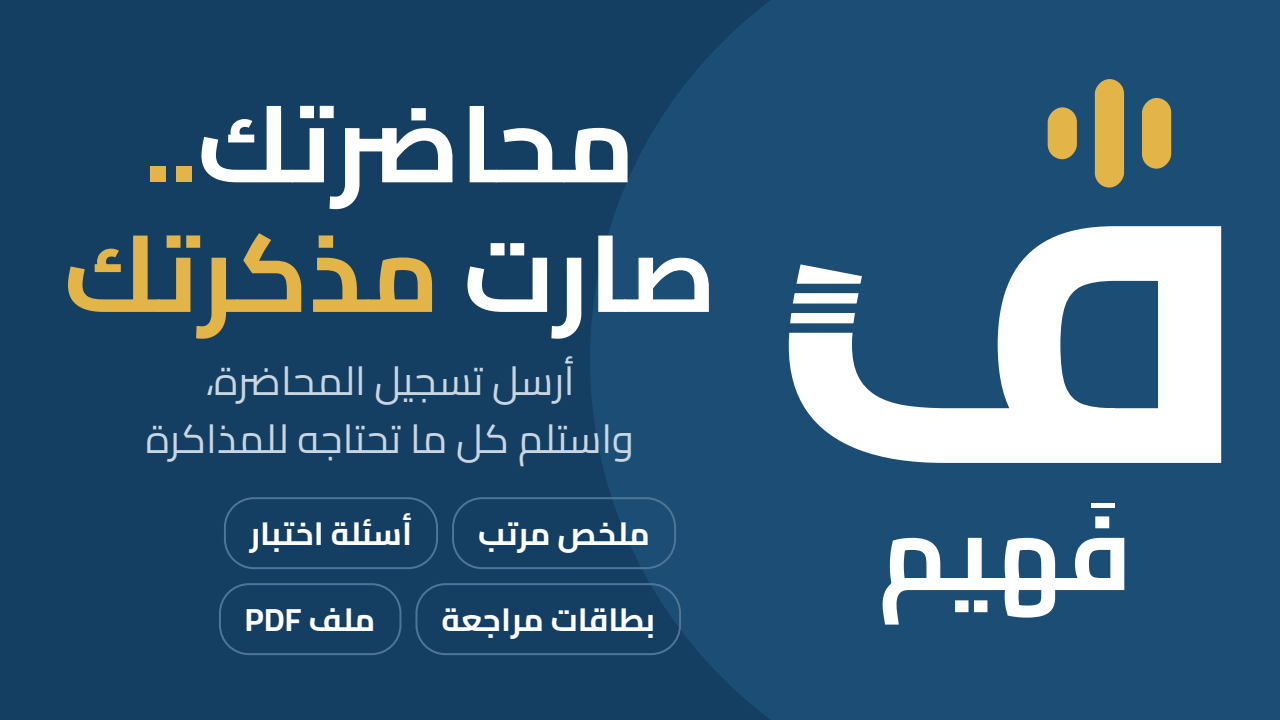
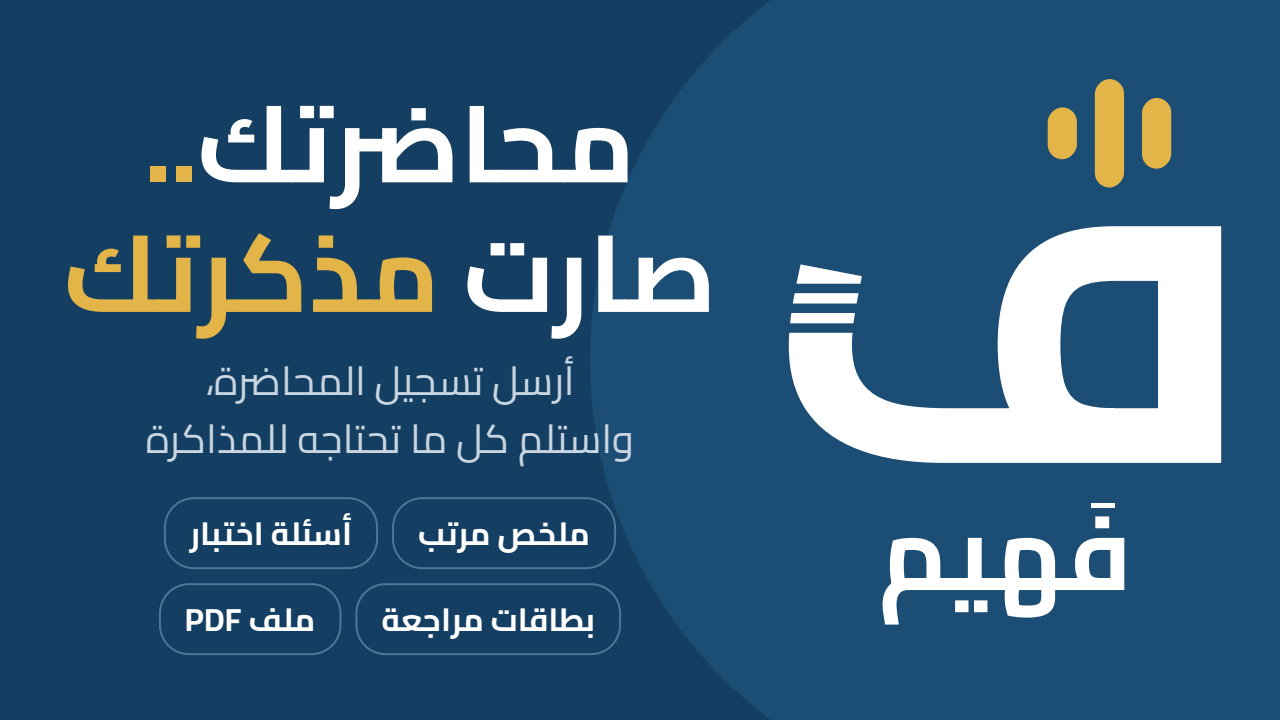
Faheem description picture: centre the feature chips under the copy
Claude-Session: https://claude.ai/code/session_015VcjCjxnsofWDNeZ4HzkTW

Changed region(s): [[0.125, 0.6722, 0.5312, 0.9167]]

diff --git a/design/faheem/make_description.py b/design/faheem/make_description.py
@@ -29,7 +29,7 @@ body {{ width: {W}px; height: {H}px; background: {logo.NAVY}; font-family: Cairo
 h1 {{ margin: 0; font-size: 108px; line-height: 1.2; font-weight: 700; }}
 h1 b {{ color: {logo.GOLD}; }}
 p {{ margin: 14px 0 0; font-size: 40px; line-height: 1.45; color: #c9d6e2; }}
-.chips {{ margin: 30px auto 0; width: 640px; text-align: center; }}
+.chips {{ margin: 30px auto 0; width: 640px; text-align: center; position: relative; right: 60px; }}
 .chips span {{ display: inline-block; margin: 0 7px 14px; padding: 4px 24px; border-radius: 30px;
                border: 2px solid #4f7597; font-size: 32px; font-weight: 700; color: #fff; }}
 .wave {{ position: absolute; left: 80px; bottom: 70px; height: 70px; display: flex; align-items: center;
